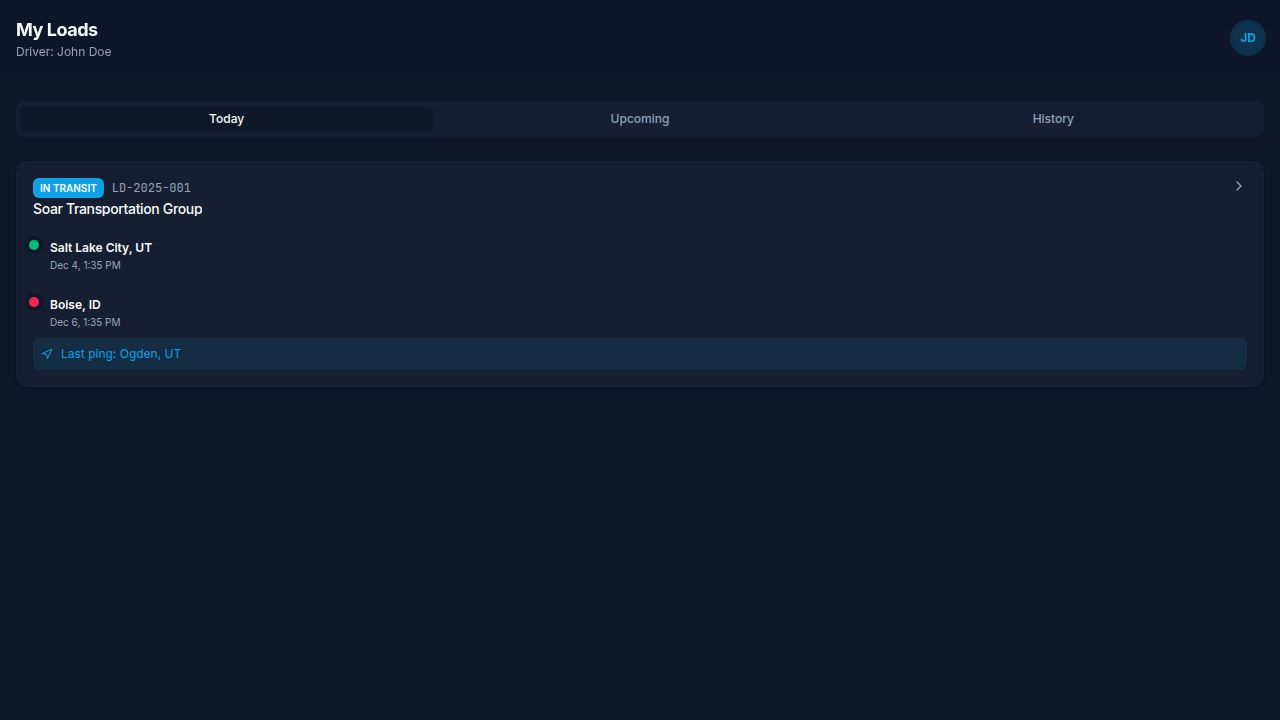
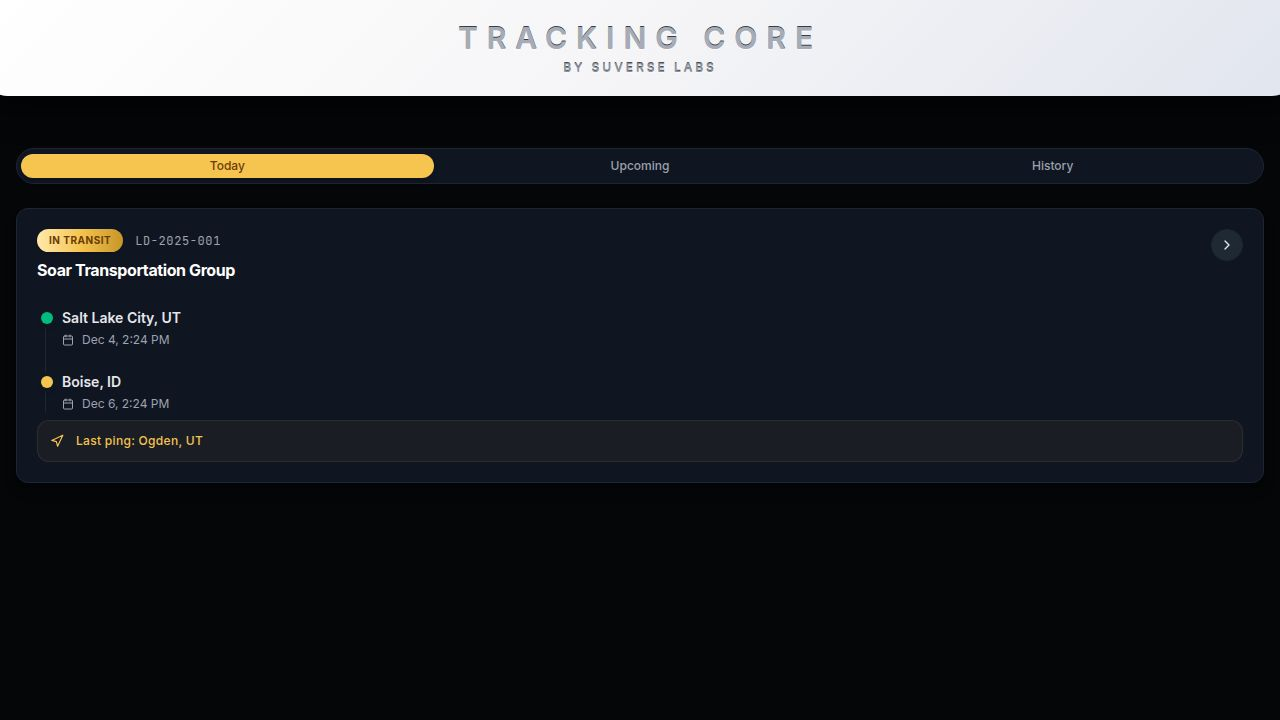
Add a metallic engraved header to the driver dashboard
Update the driver dashboard header with a full-width silver metal bar featuring engraved "TRACKING CORE" and "BY SUVERSE LABS" text, applying custom CSS for the metallic and engraved effects.

Replit-Commit-Author: Agent
Replit-Commit-Session-Id: 585e9e5c-41f2-439e-9107-b038980102cf
Replit-Commit-Checkpoint-Type: full_checkpoint
Replit-Commit-Event-Id: 23df78dd-b9a1-4088-b5d4-4dcdacfa25b0
Replit-Commit-Screenshot-Url: https://storage.googleapis.com/screenshot-production-us-central1/6770693b-fc9a-4c02-9b92-87ade92b7c79/585e9e5c-41f2-439e-9107-b038980102cf/xldGxP1
Replit-Helium-Checkpoint-Created: true

diff --git a/client/src/pages/driver-dashboard.tsx b/client/src/pages/driver-dashboard.tsx
@@ -17,21 +17,30 @@ export default function DriverDashboard() {
   return (
     <div className="min-h-screen bg-brand-bg text-brand-text pb-20 font-sans">
       {/* Header */}
-      <header className="sticky top-0 z-10 border-b border-brand-border bg-brand-bg/80 backdrop-blur-md">
-        <div className="container mx-auto px-4 py-4 flex items-center justify-between">
-          <div>
-            <h1 className="text-xl font-bold tracking-tight text-white">My Loads</h1>
-            <p className="text-xs text-brand-muted uppercase tracking-widest mt-1">Driver: John Doe</p>
-          </div>
-          <div className="h-10 w-10 rounded-full bg-brand-card border border-brand-border flex items-center justify-center text-brand-gold font-bold text-sm shadow-lg">
-            JD
-          </div>
+      <header className="w-full mb-3">
+        <div
+          className="
+            metal-header
+            mx-[-1rem]
+            px-4
+            py-5
+            rounded-b-3xl
+            flex flex-col items-center justify-center
+            shadow-pill-dark/50
+          "
+        >
+          <h1 className="metal-engraved-main text-xl sm:text-2xl md:text-3xl text-center">
+            TRACKING CORE
+          </h1>
+          <p className="metal-engraved-sub mt-1 text-[10px] sm:text-xs text-center">
+            BY SUVERSE LABS
+          </p>
         </div>
       </header>
 
       <main className="container mx-auto px-4 py-6 space-y-6">
         {/* Status Tabs */}
-        <Tabs defaultValue="today" onValueChange={(v) => setActiveTab(v as any)} className="w-full">
+        <Tabs defaultValue="today" onValueChange={(v) => setActiveTab(v as any)} className="w-full mt-4">
           <TabsList className="grid w-full grid-cols-3 bg-brand-card p-1 rounded-full border border-brand-border">
             <TabsTrigger 
               value="today" 

diff --git a/client/src/index.css b/client/src/index.css
@@ -88,4 +88,29 @@
   .text-technical {
     @apply font-mono uppercase tracking-wider text-xs text-muted-foreground;
   }
+
+  .metal-header {
+    background-image: linear-gradient(135deg, #ffffff, #f5f5f7, #e1e5ee);
+    box-shadow: 0 14px 30px rgba(0, 0, 0, 0.55);
+  }
+
+  .metal-engraved-main {
+    color: #a5acb8;
+    letter-spacing: 0.3em;
+    text-transform: uppercase;
+    font-weight: 600;
+    text-shadow:
+      0 1px 0 rgba(255, 255, 255, 0.65),   /* top highlight */
+      0 -1px 0 rgba(0, 0, 0, 0.75);        /* inner shadow */
+  }
+
+  .metal-engraved-sub {
+    color: #8b92a0;
+    letter-spacing: 0.25em;
+    text-transform: uppercase;
+    font-weight: 500;
+    text-shadow:
+      0 1px 0 rgba(255, 255, 255, 0.55),
+      0 -1px 0 rgba(0, 0, 0, 0.7);
+  }
 }
